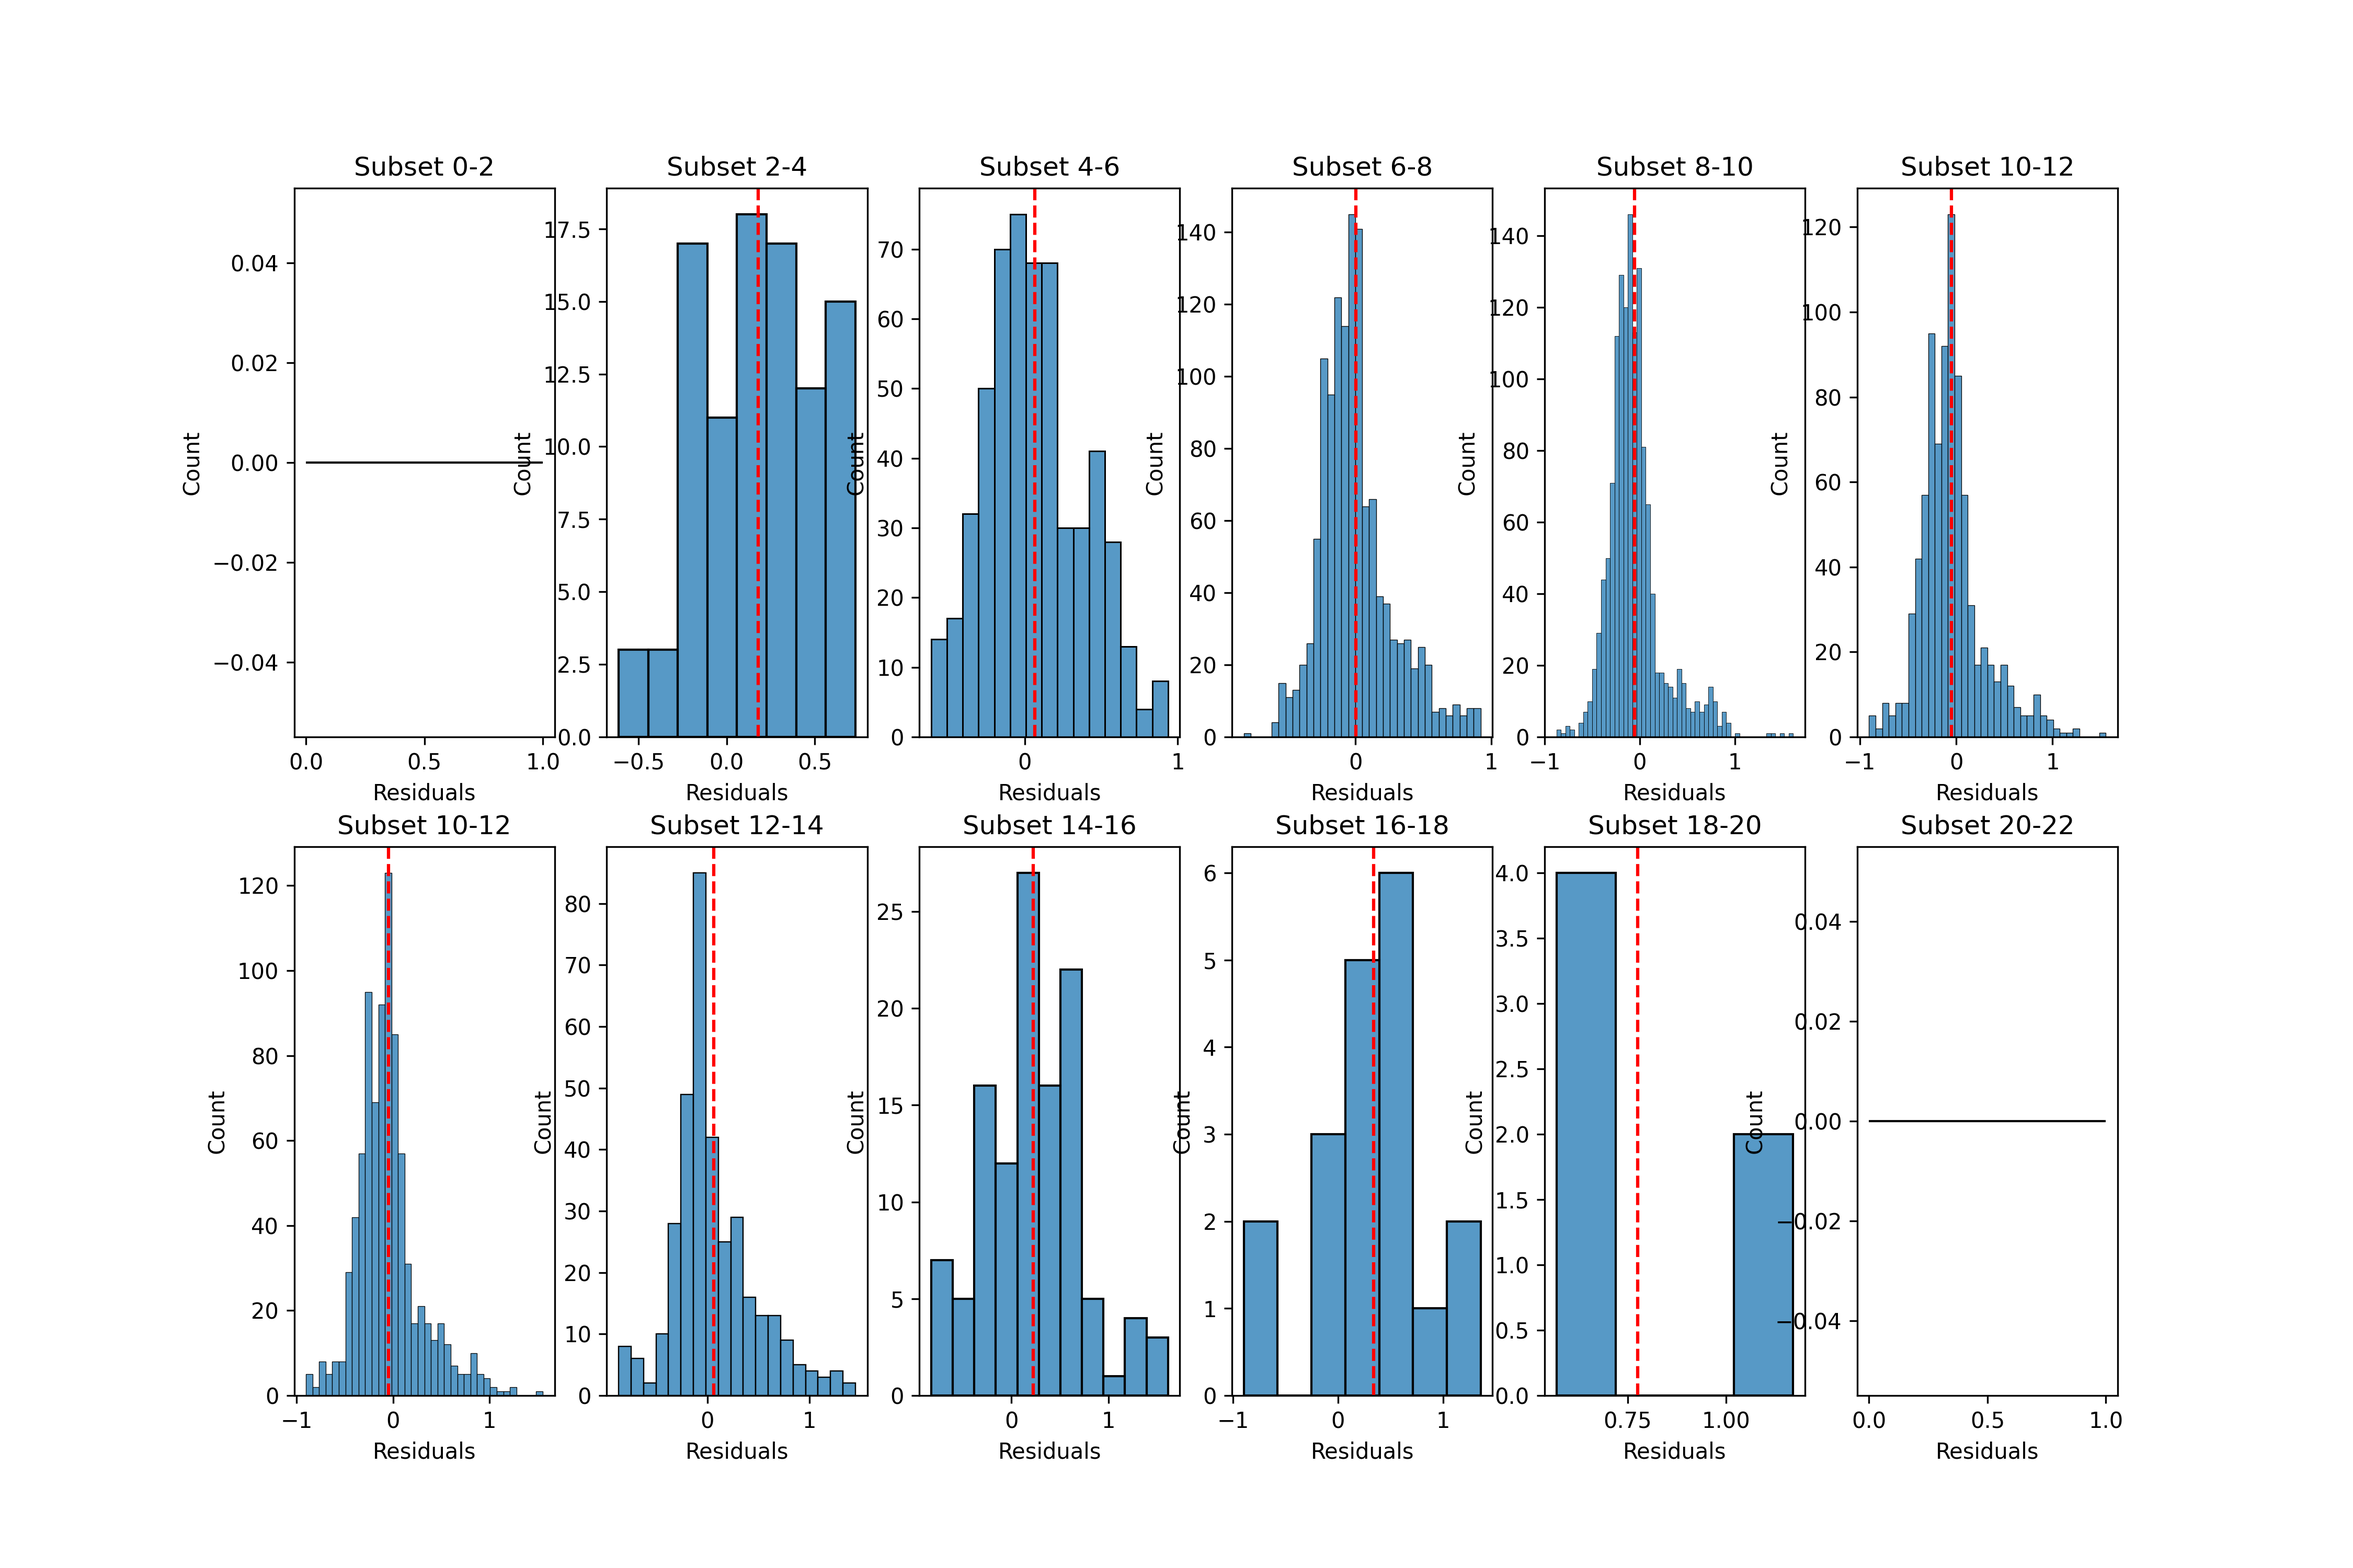
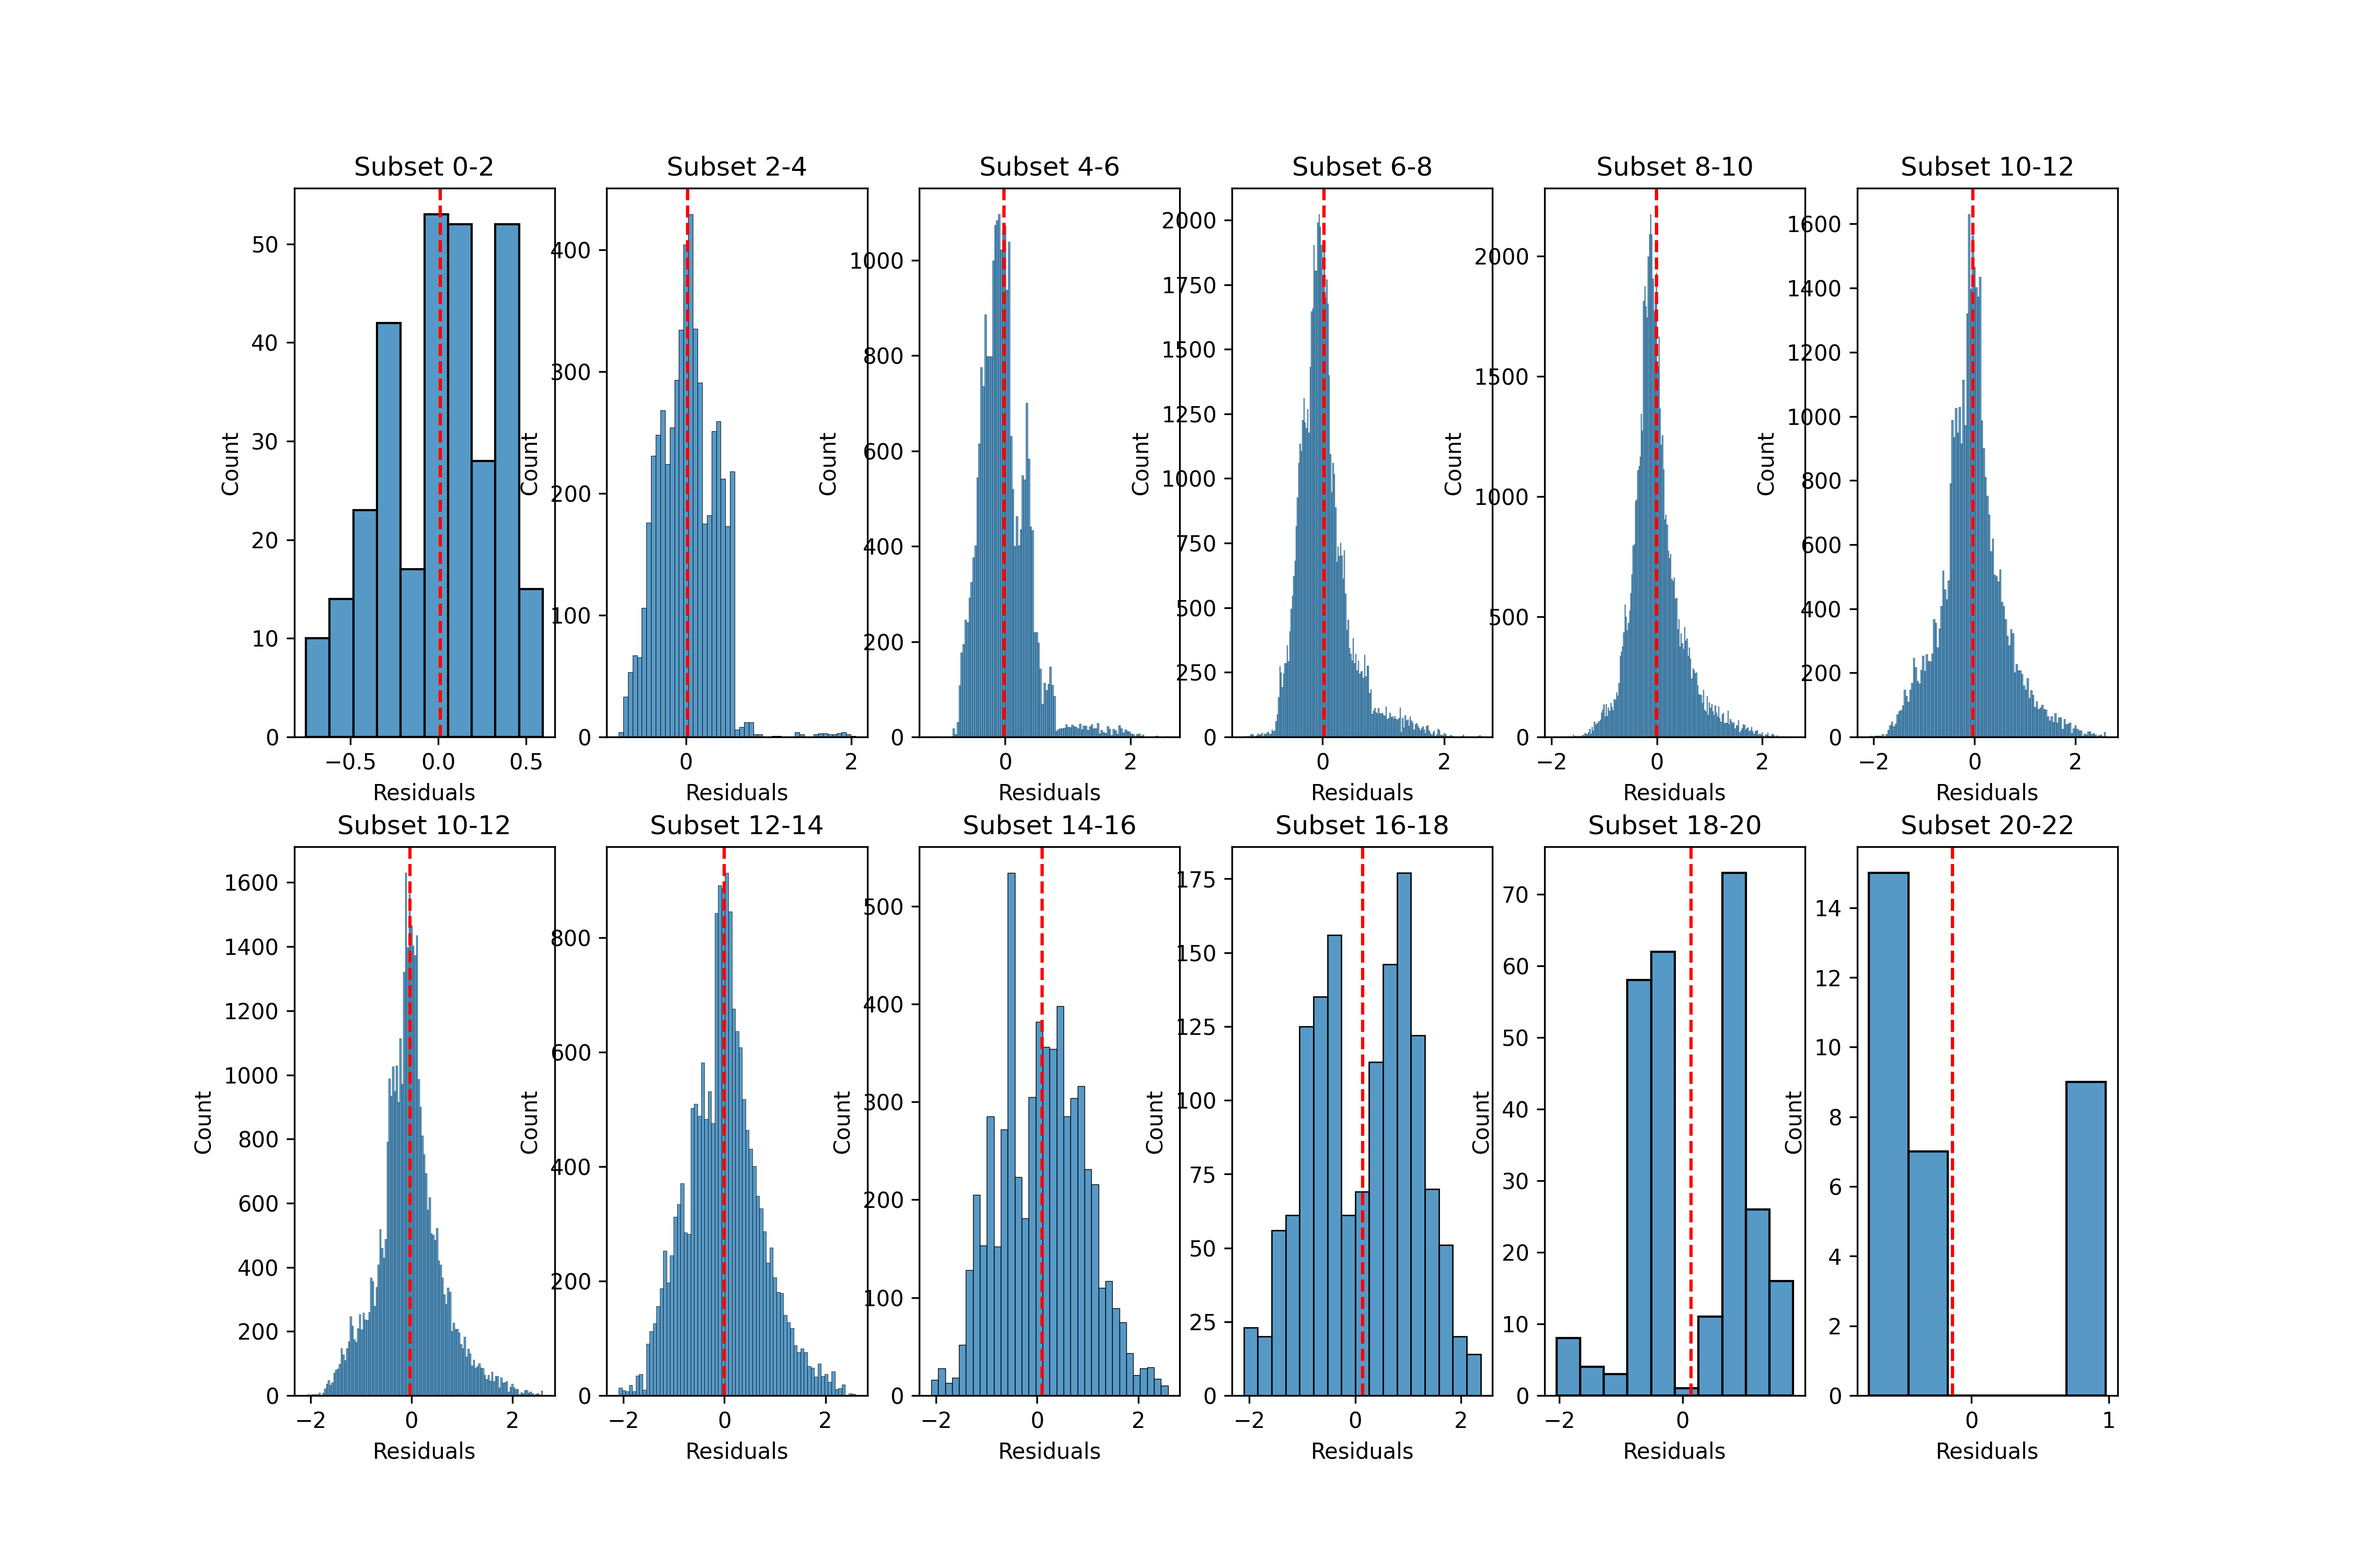
Nouvelles figures avec le grand jeu de données

diff --git a/results/regression_global.tex b/results/regression_global.tex
@@ -1,34 +1,30 @@
 \begin{table}[!htbp] \centering
-\begin{tabular}{@{\extracolsep{5pt}}lcccc}
+\begin{tabular}{@{\extracolsep{5pt}}lccc}
 \\[-1.8ex]\hline
 \hline \\[-1.8ex]
-& \multicolumn{4}{c}{\textit{Dependent variable: log\_damage}} \
-\cr \cline{2-5}
-\\[-1.8ex] & \multicolumn{1}{c}{Temp} & \multicolumn{1}{c}{Simple} & \multicolumn{1}{c}{Equation} & \multicolumn{1}{c}{Logged}  \\
-\\[-1.8ex] & (1) & (2) & (3) & (4) \\
+& \multicolumn{3}{c}{\textit{Dependent variable: log\_damage}} \
+\cr \cline{2-4}
+\\[-1.8ex] & \multicolumn{1}{c}{Temp} & \multicolumn{1}{c}{Simple} & \multicolumn{1}{c}{Equation}  \\
+\\[-1.8ex] & (1) & (2) & (3) \\
 \hline \\[-1.8ex]
- Temperature Change & 4.487$^{***}$ & 4.627$^{***}$ & 4.627$^{***}$ & 4.756$^{***}$ \\
-& (0.166) & (0.108) & (0.097) & (0.102) \\[2em]
- Exponent & & 0.895$^{***}$ & 0.895$^{***}$ & \\
-& & (0.110) & (0.098) & \\[2em]
- Constant & & -0.000$^{***}$ & -0.000$^{***}$ & \\
-& & (0.000) & (0.000) & \\[2em]
- log\_exponent & & & & 0.409$^{***}$ \\
-& & & & (0.055) \\[2em]
- log\_constant & & & & -1.064$^{***}$ \\
-& & & & (0.111) \\[2em]
- DICE form damage function & & & -0.237$^{**}$ & -0.237$^{*}$ \\
-& & & (0.116) & (0.123) \\[2em]
- WITNESS form damage function & & & 0.308$^{***}$ & 0.308$^{**}$ \\
-& & & (0.116) & (0.123) \\[2em]
+ Temperature Change & 4.083$^{***}$ & 4.110$^{***}$ & 4.110$^{***}$ \\
+& (0.027) & (0.025) & (0.024) \\[2em]
+ Exponent (log) & & 0.188$^{***}$ & 0.188$^{***}$ \\
+& & (0.011) & (0.011) \\[2em]
+ Constant (log) & & -0.683$^{***}$ & -0.683$^{***}$ \\
+& & (0.030) & (0.029) \\[2em]
+ DICE form damage function & & & -0.202$^{***}$ \\
+& & & (0.031) \\[2em]
+ WITNESS form damage function & & & 0.344$^{***}$ \\
+& & & (0.031) \\[2em]
 \hline \\[-1.8ex]
- Observations & 81 & 81 & 81 & 81 \\
- $R^2$ & 0.903 & 0.962 & 0.971 & 0.967 \\
- Adjusted $R^2$ & 0.901 & 0.960 & 0.969 & 0.965 \\
- Residual Std. Error & 0.757 (df=79) & 0.479 (df=77) & 0.426 (df=75) & 0.451 (df=75) \\
- F Statistic & 731.509$^{***}$ (df=1; 79) & 648.547$^{***}$ (df=3; 77) & 495.566$^{***}$ (df=5; 75) & 441.062$^{***}$ (df=5; 75) \\
+ Observations & 5073 & 5073 & 5073 \\
+ $R^2$ & 0.824 & 0.847 & 0.856 \\
+ Adjusted $R^2$ & 0.824 & 0.847 & 0.856 \\
+ Residual Std. Error & 0.997 (df=5071) & 0.928 (df=5069) & 0.901 (df=5067) \\
+ F Statistic & 23720.751$^{***}$ (df=1; 5071) & 9378.777$^{***}$ (df=3; 5069) & 6041.199$^{***}$ (df=5; 5067) \\
 \hline
 \hline \\[-1.8ex]
-\textit{Note:} & \multicolumn{4}{r}{$^{*}$p$<$0.1; $^{**}$p$<$0.05; $^{***}$p$<$0.01} \\
+\textit{Note:} & \multicolumn{3}{r}{$^{*}$p$<$0.1; $^{**}$p$<$0.05; $^{***}$p$<$0.01} \\
 \end{tabular}
 \end{table}

diff --git a/results/regression_1.tex b/results/regression_1.tex
@@ -7,21 +7,21 @@
 \\[-1.8ex] & \multicolumn{1}{c}{Temp} & \multicolumn{1}{c}{Simple} & \multicolumn{1}{c}{Equation} & \multicolumn{1}{c}{Country} & \multicolumn{1}{c}{Double}  \\
 \\[-1.8ex] & (1) & (2) & (3) & (4) & (5) \\
 \hline \\[-1.8ex]
- Temperature Change & 2.879$^{***}$ & 3.047$^{***}$ & 3.047$^{***}$ & 3.089$^{***}$ & 3.089$^{***}$ \\
-& (0.059) & (0.053) & (0.052) & (0.011) & (0.009) \\[2em]
- log\_coef & & 0.936$^{***}$ & 0.936$^{***}$ & 0.995$^{***}$ & 0.995$^{***}$ \\
-& & (0.026) & (0.026) & (0.006) & (0.005) \\[2em]
- DICE form damage function & & & -0.186$^{***}$ & & -0.186$^{***}$ \\
-& & & (0.067) & & (0.012) \\[2em]
- WITNESS form damage function & & & 0.357$^{***}$ & & 0.357$^{***}$ \\
-& & & (0.067) & & (0.012) \\[2em]
+ Temperature Change & 2.840$^{***}$ & 2.837$^{***}$ & 2.837$^{***}$ & 2.864$^{***}$ & 2.864$^{***}$ \\
+& (0.009) & (0.008) & (0.007) & (0.002) & (0.002) \\[2em]
+ log\_coef & & 1.000$^{***}$ & 1.000$^{***}$ & 1.003$^{***}$ & 1.003$^{***}$ \\
+& & (0.004) & (0.004) & (0.001) & (0.001) \\[2em]
+ DICE form damage function & & & -0.196$^{***}$ & & -0.196$^{***}$ \\
+& & & (0.010) & & (0.003) \\[2em]
+ WITNESS form damage function & & & 0.350$^{***}$ & & 0.350$^{***}$ \\
+& & & (0.010) & & (0.003) \\[2em]
  Regional dummy & No & No & No & Yes & Yes \\
 \hline \\[-1.8ex]
- Observations & 4638 & 4638 & 4638 & 4638 & 4638 \\
- $R^2$ & 0.337 & 0.481 & 0.488 & 0.977 & 0.985 \\
- Adjusted $R^2$ & 0.336 & 0.481 & 0.488 & 0.977 & 0.984 \\
- Residual Std. Error & 2.117 (df=4636) & 1.873 (df=4635) & 1.860 (df=4633) & 0.395 (df=4613) & 0.324 (df=4611) \\
- F Statistic & 2351.447$^{***}$ (df=1; 4636) & 2147.011$^{***}$ (df=2; 4635) & 1105.831$^{***}$ (df=4; 4633) & 8186.455$^{***}$ (df=24; 4613) & 11321.719$^{***}$ (df=26; 4611) \\
+ Observations & 231378 & 231378 & 231378 & 231378 & 231378 \\
+ $R^2$ & 0.315 & 0.485 & 0.492 & 0.955 & 0.962 \\
+ Adjusted $R^2$ & 0.315 & 0.485 & 0.492 & 0.955 & 0.962 \\
+ Residual Std. Error & 2.209 (df=231376) & 1.916 (df=231375) & 1.903 (df=231373) & 0.566 (df=231353) & 0.519 (df=231351) \\
+ F Statistic & 106536.752$^{***}$ (df=1; 231376) & 108825.888$^{***}$ (df=2; 231375) & 55991.215$^{***}$ (df=4; 231373) & 204959.303$^{***}$ (df=24; 231353) & 226667.979$^{***}$ (df=26; 231351) \\
 \hline
 \hline \\[-1.8ex]
 \textit{Note:} & \multicolumn{5}{r}{$^{*}$p$<$0.1; $^{**}$p$<$0.05; $^{***}$p$<$0.01} \\

diff --git a/results/description_table.tex b/results/description_table.tex
@@ -2,13 +2,13 @@
 \toprule
  & coef & temperature_change \\
 \midrule
-count & 1865.000000 & 1865.000000 \\
-mean & 2.039068 & 1.661358 \\
-std & 3.983521 & 0.523274 \\
-min & 0.021691 & 0.845000 \\
-25% & 0.672309 & 1.198624 \\
-50% & 1.027231 & 1.634714 \\
-75% & 1.582395 & 2.090832 \\
-max & 47.991522 & 2.616576 \\
+count & 93191.000000 & 93191.000000 \\
+mean & 2.028376 & 1.690354 \\
+std & 4.253181 & 0.527822 \\
+min & 0.020119 & 0.845000 \\
+25% & 0.612536 & 1.271141 \\
+50% & 0.997067 & 1.665065 \\
+75% & 1.572891 & 2.030558 \\
+max & 49.987579 & 3.332688 \\
 \bottomrule
 \end{tabular}
